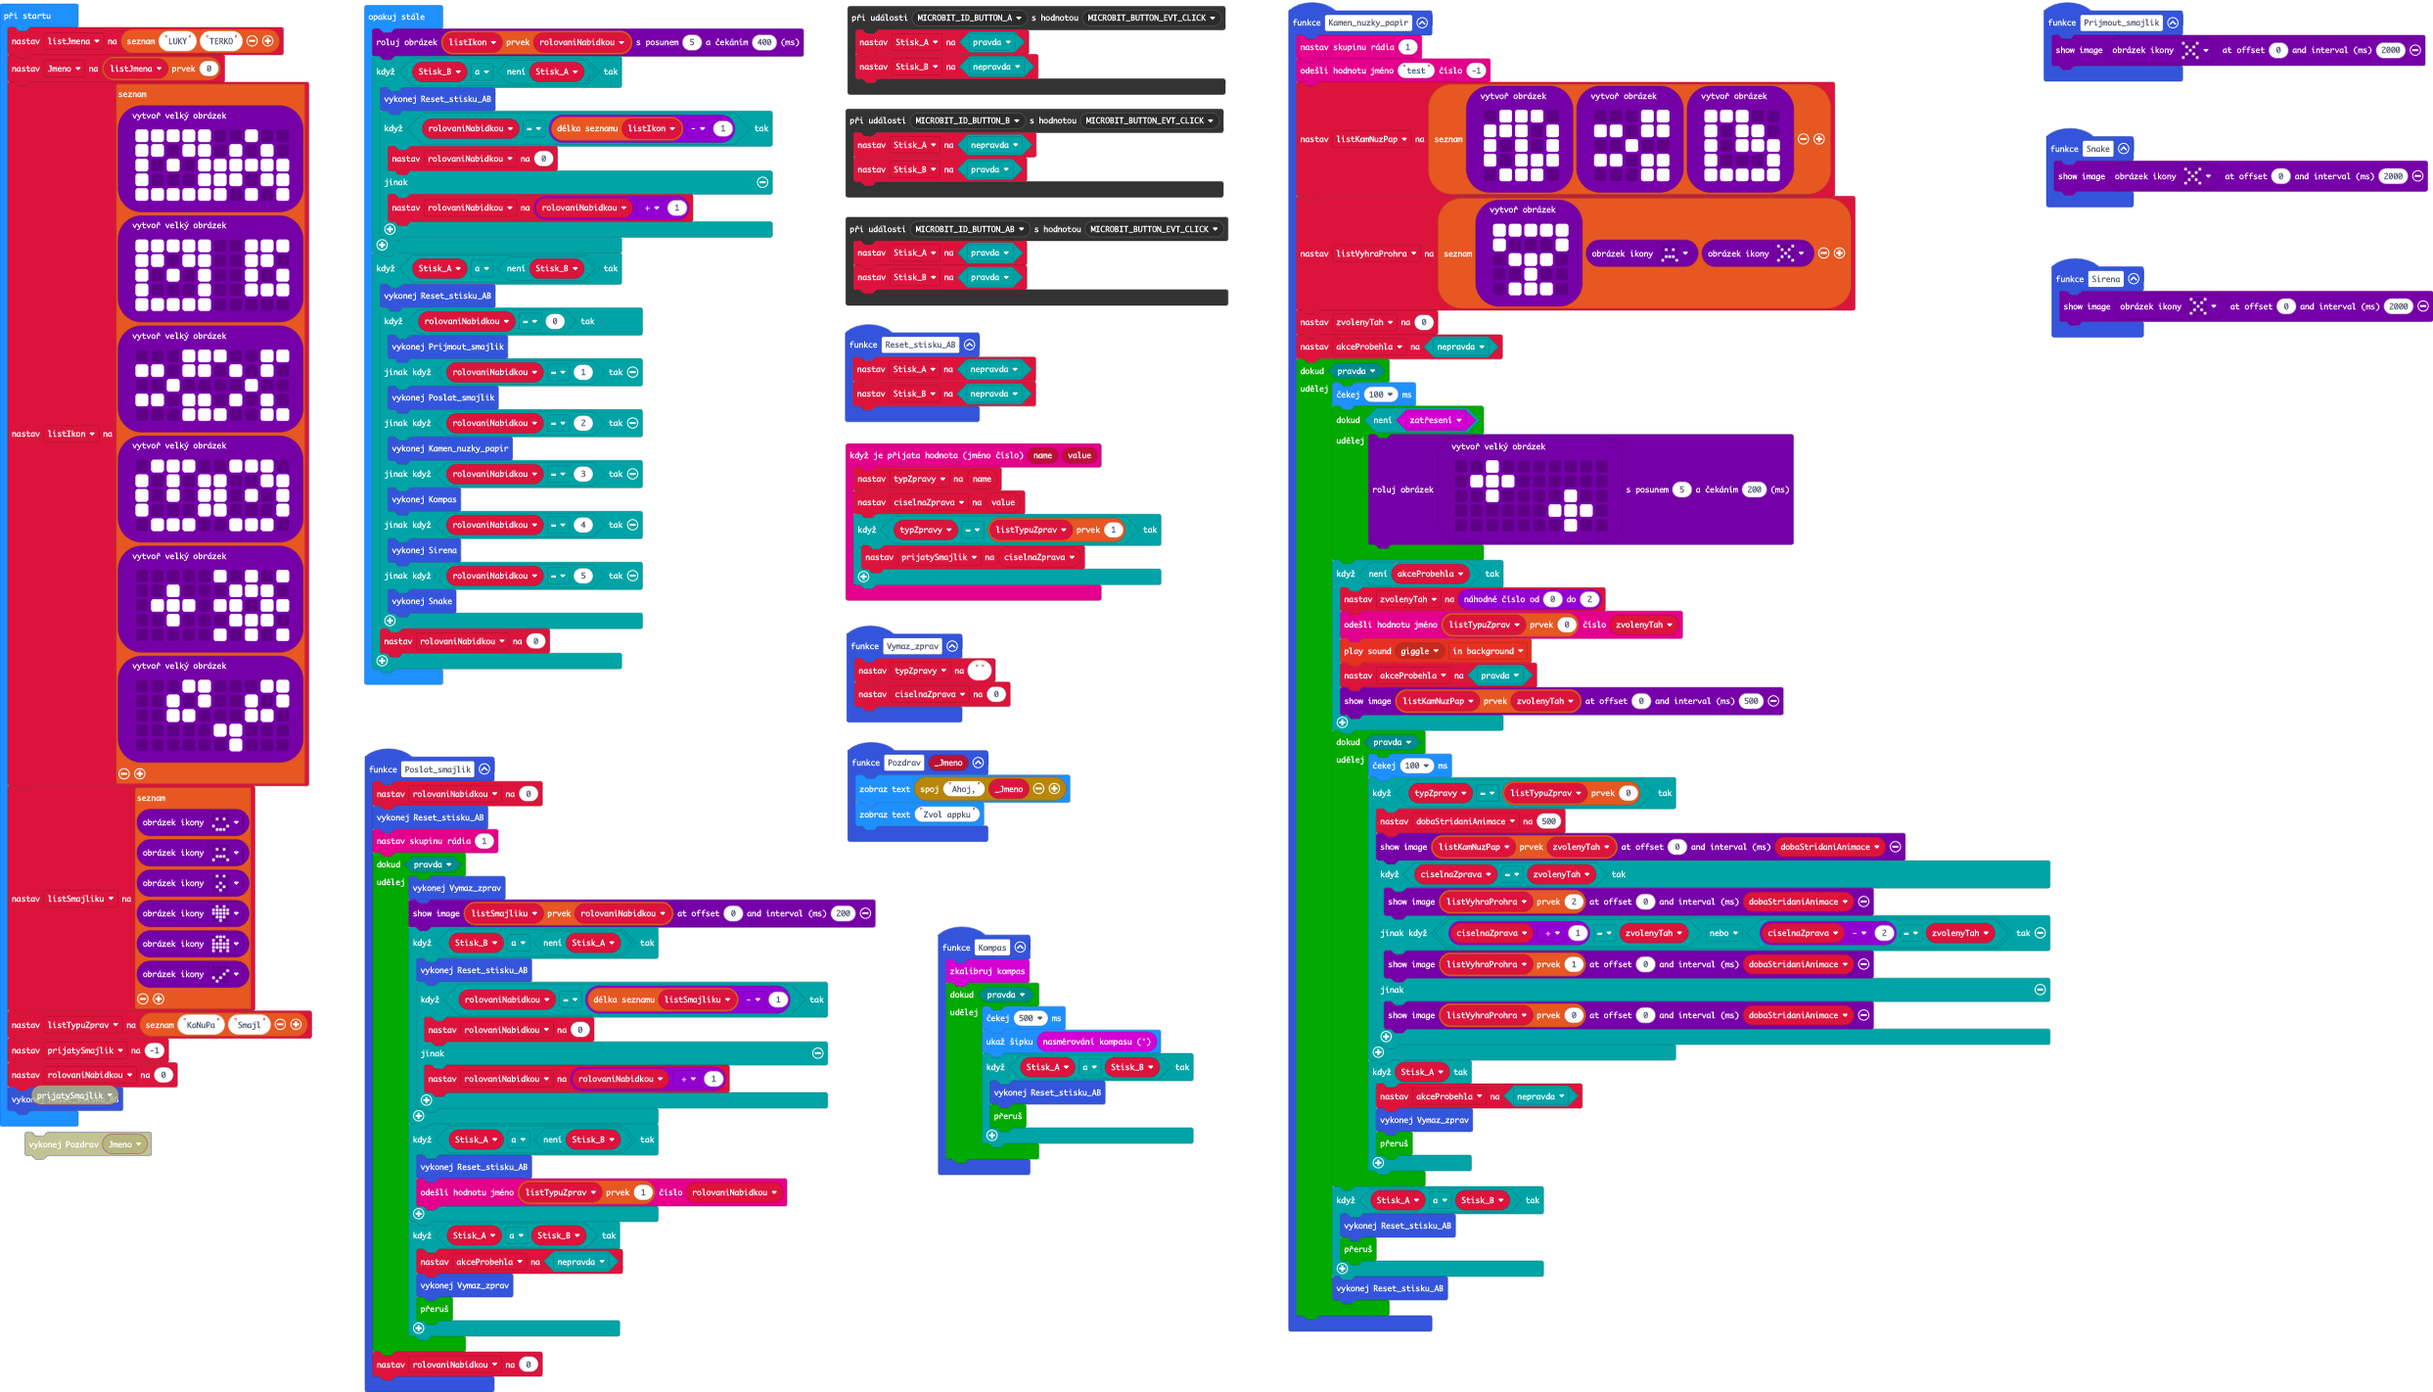
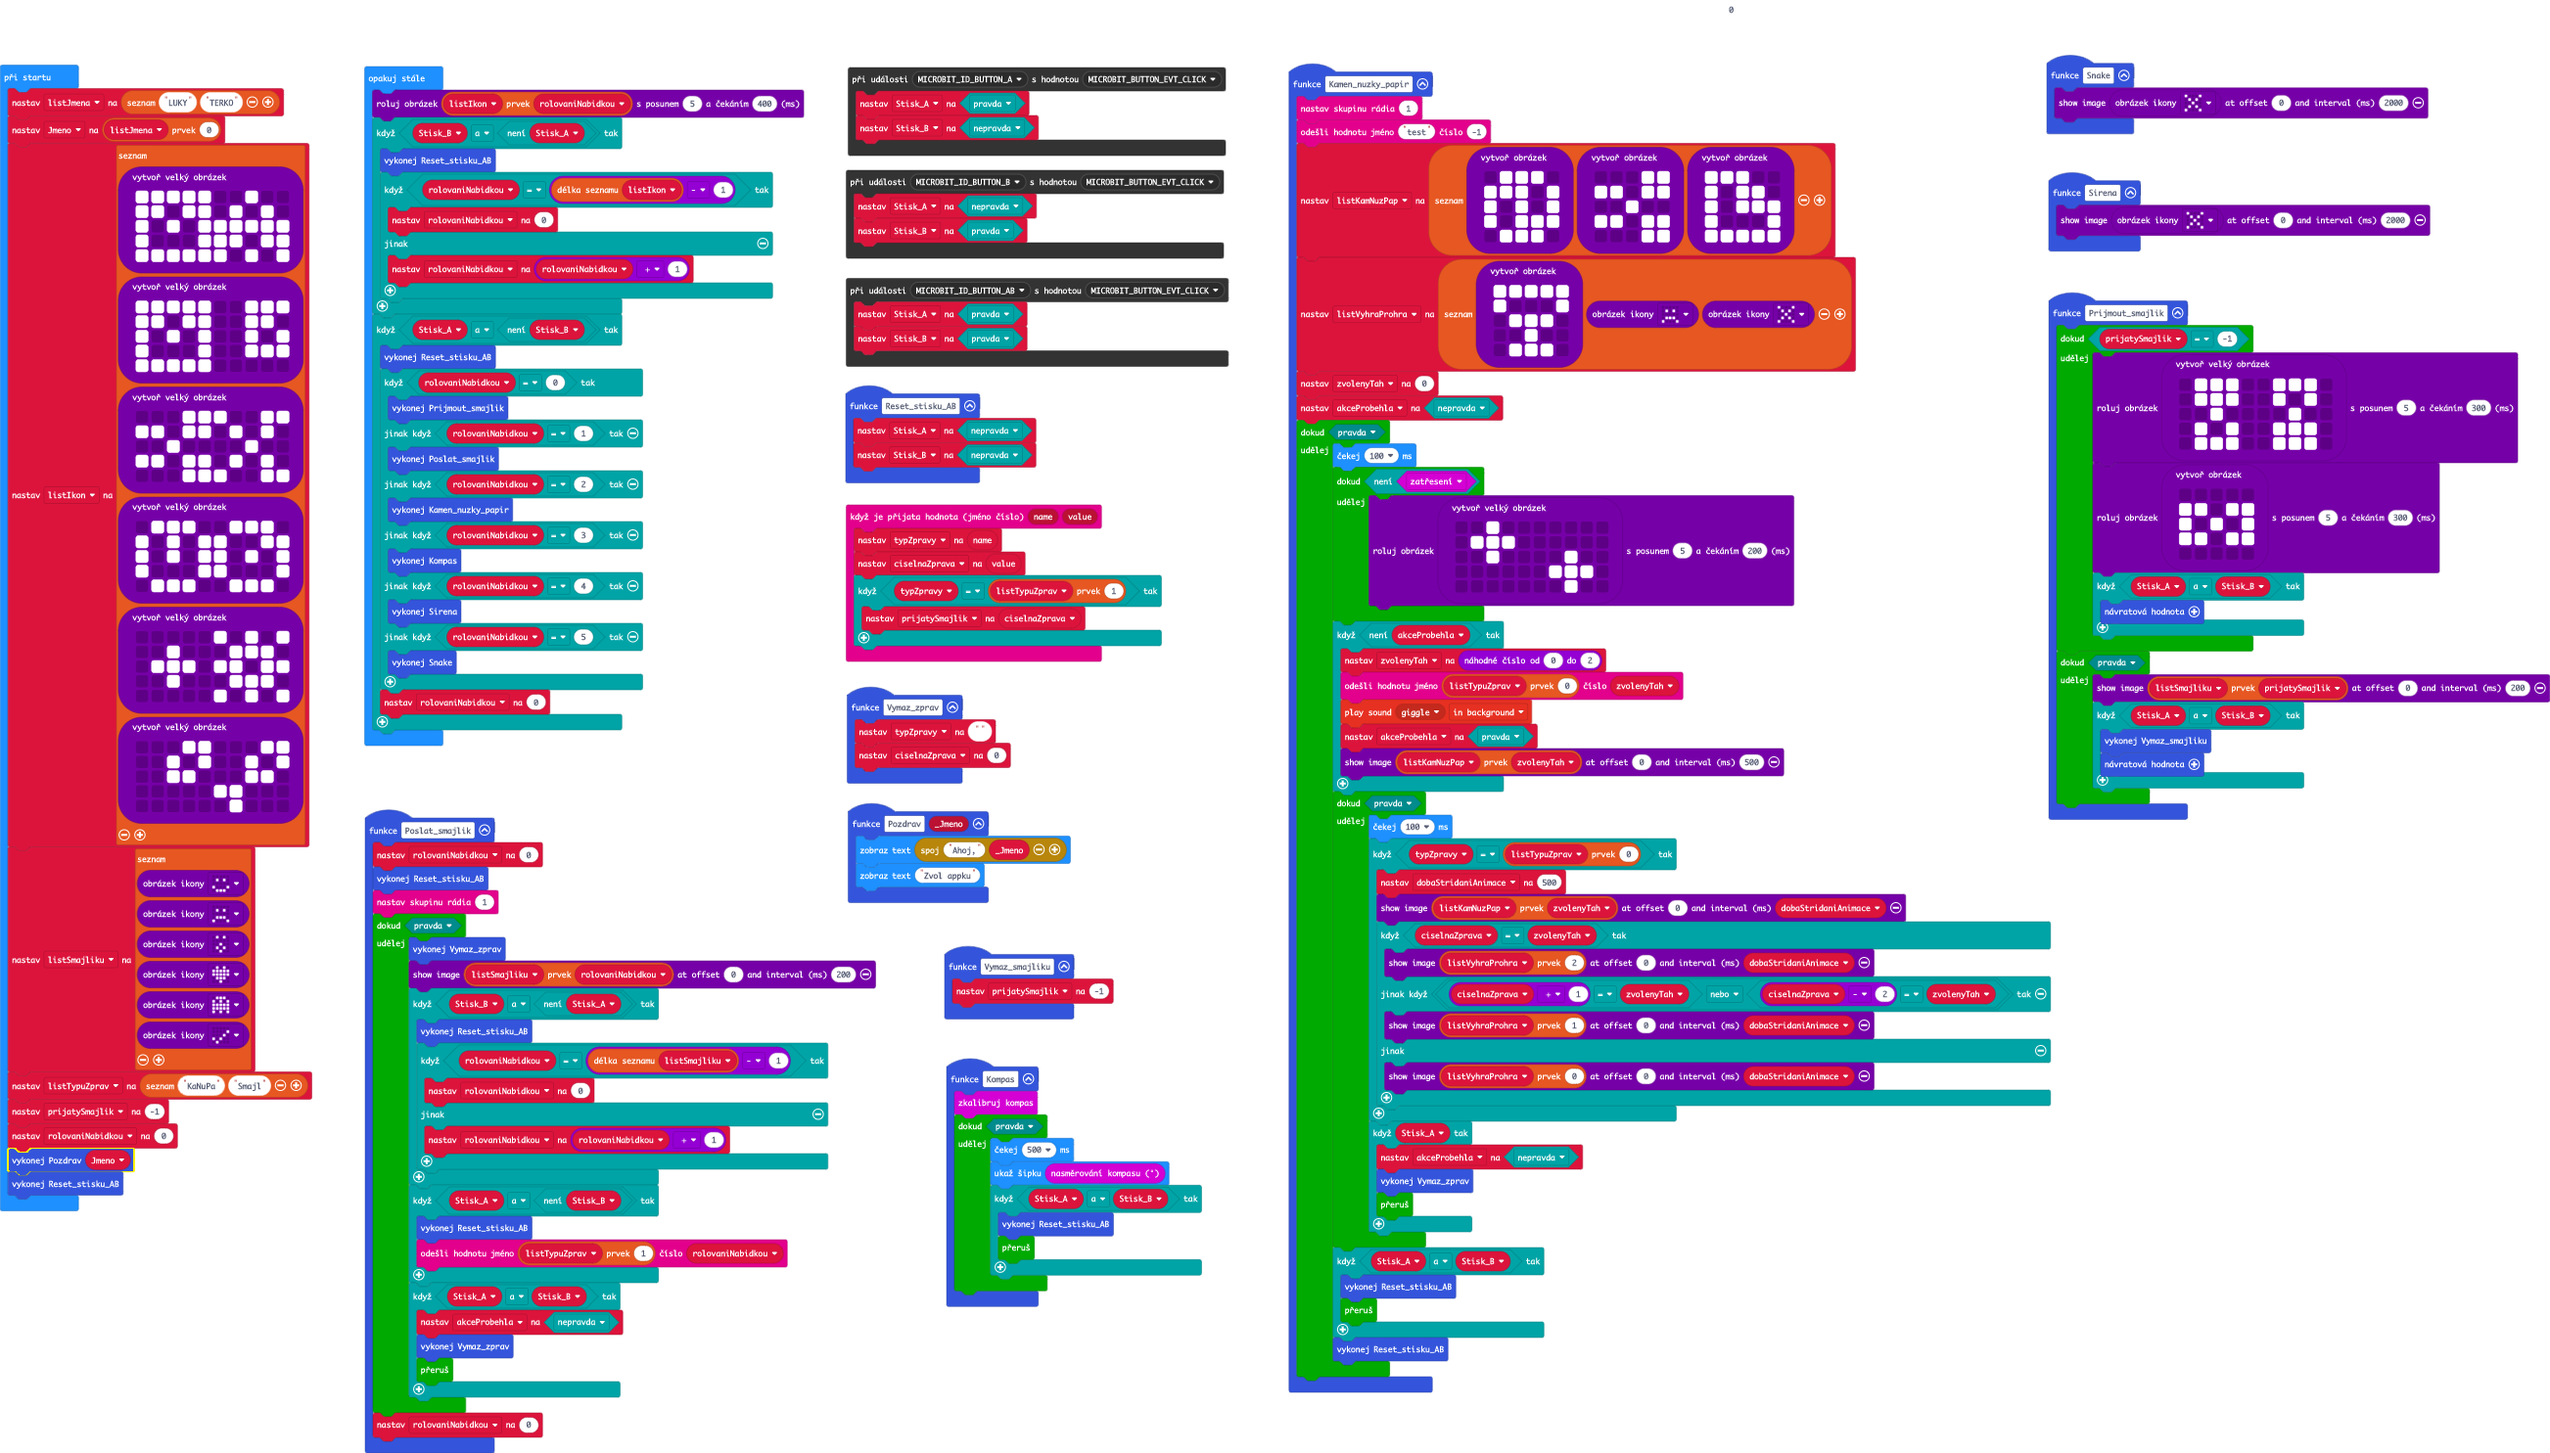
Přijetí smajlíku

diff --git a/main.ts b/main.ts
@@ -1,3 +1,6 @@
+function Vymaz_smajliku () {
+    prijatySmajlik = -1
+}
 function Vymaz_zprav () {
     typZpravy = ""
     ciselnaZprava = 0
@@ -6,7 +9,32 @@ function Snake () {
     images.iconImage(IconNames.No).showImage(0, 2000)
 }
 function Prijmout_smajlik () {
-    images.iconImage(IconNames.No).showImage(0, 2000)
+    while (prijatySmajlik == -1) {
+        images.createBigImage(`
+            . # # # . . # # # .
+            . # # # . . # . # .
+            . . # . . . . # . .
+            . # . # . . # # # .
+            . # # # . . # # # .
+            `).scrollImage(5, 300)
+        images.createImage(`
+            . . . . .
+            # # . # #
+            # . # . #
+            # # . # #
+            . . . . .
+            `).scrollImage(5, 300)
+        if (Stisk_A && Stisk_B) {
+            return
+        }
+    }
+    while (true) {
+        listSmajliku[prijatySmajlik].showImage(0, 200)
+        if (Stisk_A && Stisk_B) {
+            Vymaz_smajliku()
+            return
+        }
+    }
 }
 control.onEvent(EventBusSource.MICROBIT_ID_BUTTON_B, EventBusValue.MICROBIT_BUTTON_EVT_CLICK, function () {
     Stisk_A = false
@@ -221,6 +249,7 @@ images.iconImage(IconNames.Yes)
 listTypuZprav = ["KaNuPa", "Smajl"]
 prijatySmajlik = -1
 rolovaniNabidkou = 0
+Pozdrav(Jmeno)
 Reset_stisku_AB()
 basic.forever(function () {
     listIkon[rolovaniNabidkou].scrollImage(5, 400)
